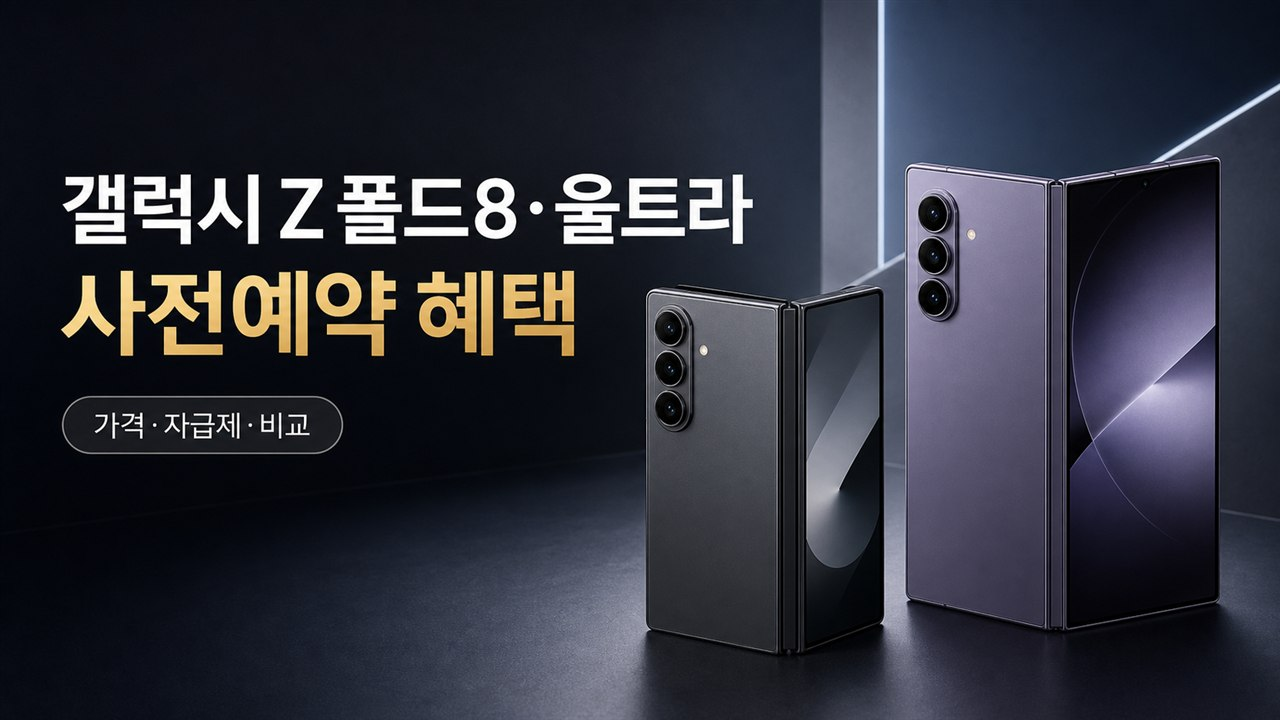
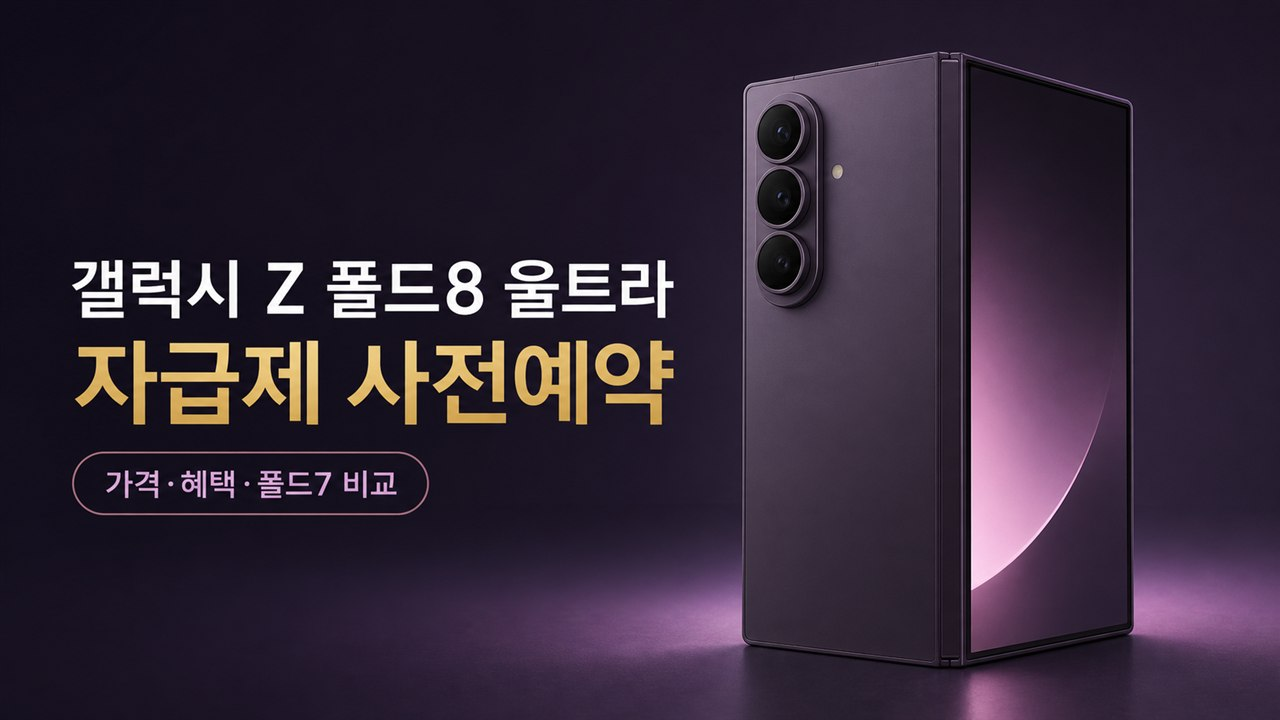
content: split Fold8 self-unlocked preorder guides

diff --git a/src/content/posts/galaxy-z-fold8-ultra-preorder-guide.md b/src/content/posts/galaxy-z-fold8-ultra-preorder-guide.md
@@ -1,160 +1,142 @@
 ---
-title: "갤럭시 Z 폴드8·폴드8 울트라 사전예약 가격과 자급제 혜택"
-description: "삼성 갤럭시 Z 폴드8과 폴드8 울트라의 사전예약 기간·가격·혜택·신청 방법을 정리하고, 자급제와 통신사 구매 및 폴드7과의 차이를 비교합니다."
-pubDate: "2026-07-28T13:20:00+09:00"
-updatedDate: "2026-07-28T13:20:00+09:00"
+title: "갤럭시 Z 폴드8 울트라 자급제 사전예약 가격과 폴드7 비교"
+description: "갤럭시 Z 폴드8 울트라 자급제 사전예약 기간과 가격, 더블 스토리지 혜택, 폴드7과의 차이 및 신청 전 확인사항을 정리합니다."
+pubDate: "2026-07-28T13:30:00+09:00"
+updatedDate: "2026-07-28T16:05:00+09:00"
 permalink: "/galaxy-z-fold8-ultra-preorder-guide/"
 slugPath: "galaxy-z-fold8-ultra-preorder-guide"
 categories: ["living-information"]
-tags: ["삼성 갤럭시 폴드8 사전예약", "갤럭시 폴드8 울트라 사전예약", "갤럭시 폴드8 자급제", "갤럭시 폴드8 가격", "갤럭시 폴드8 vs 폴드7"]
+tags: ["삼성 갤럭시 폴드8 울트라 사전예약", "갤럭시 폴드8 울트라 자급제", "갤럭시 폴드8 울트라 가격", "갤럭시 폴드8 울트라 혜택", "갤럭시 폴드8 울트라 vs 폴드7"]
 heroImage: "/wp-content/uploads/2026/07/galaxy-z-fold8-ultra-preorder-guide.jpg"
 affiliateDisclosure: "이 포스팅은 네이버 쇼핑 커넥트 활동의 일환으로, 이에 따른 일정액의 수수료를 제공받습니다."
 originalUrl: "https://ssangbak.com/galaxy-z-fold8-ultra-preorder-guide/"
 ---
 
-삼성 갤럭시 Z 폴드8과 갤럭시 Z 폴드8 울트라의 국내 사전예약이 **2026년 7월 28일 시작**됐습니다. 예약 기간은 **8월 3일까지**, 공식 출시일은 **8월 7일**입니다. 오늘은 정식 출시일이 아니라 사전판매 시작일이므로 배송일과 개통 가능일을 구분해서 확인해야 합니다.
+갤럭시 Z 폴드8 울트라는 8.0형 대화면과 2억 화소 광각 카메라, 5,000mAh 배터리를 갖춘 상위 폴더블 모델입니다. 국내 자급제 사전예약은 **2026년 7월 28일부터 8월 3일까지**이며 공식 출시일은 **8월 7일**입니다.
 
-아래 버튼은 네이버 쇼핑 커넥트 상품 페이지로 연결됩니다. 판매자, 저장 용량, 자급제 여부, 배송 예정일과 최종 결제 금액을 확인한 뒤 신청하세요.
+아래 버튼은 갤럭시 Z 폴드8 울트라 자급제 상품으로 연결됩니다. 결제 전 상품명에 **울트라·자급제**, 선택한 저장 용량과 색상이 정확히 표시됐는지 확인하세요.
 
-<p><a class="cta-button" href="https://naver.me/GahxDsqC" target="_blank" rel="sponsored nofollow noopener">삼성 갤럭시 폴드8 사전예약 신청</a></p>
+<p><a class="cta-button" href="https://naver.me/GzdR2cGp" target="_blank" rel="sponsored nofollow noopener">삼성 갤럭시 폴드8 울트라 자급제 사전예약 신청</a></p>
 
-<p><a class="cta-button" href="https://naver.me/GahxDsqC" target="_blank" rel="sponsored nofollow noopener">삼성 갤럭시 폴드8 울트라 사전예약 신청</a></p>
-
-## 갤럭시 폴드8 사전예약 기간과 출시일
+## 폴드8 울트라 사전예약 기간과 출시일
 
 | 구분 | 일정 |
 | --- | --- |
-| 국내 사전예약 기간 | 2026년 7월 28일~8월 3일 |
+| 국내 사전예약 | 2026년 7월 28일~8월 3일 |
 | 사전구매 제품 수령·개통 | 2026년 8월 4일부터 |
-| 국내 공식 출시일 | 2026년 8월 7일 |
-| 사전판매 대상 | 폴드8 울트라, 폴드8, 플립8 |
+| 국내 공식 출시 | 2026년 8월 7일 |
+| 구매 형태 | 자급제 |
 
-사전예약은 삼성닷컴과 삼성스토어, 이동통신사 매장, 네이버·쿠팡·11번가·G마켓 등 온라인 판매처에서 진행됩니다. 같은 제품이라도 판매처별 즉시 할인, 카드 할인, 적립, 배송 조건이 다르므로 상품 페이지의 **판매자와 모델명**을 먼저 확인하는 편이 안전합니다.
+오늘은 정식 출시일이 아니라 사전판매 시작일입니다. 사전구매자는 8월 4일부터 순차적으로 제품을 받을 수 있지만 판매처와 색상별 재고에 따라 실제 배송 예정일은 달라질 수 있습니다.
 
-## 갤럭시 폴드8·울트라 가격
+## 갤럭시 폴드8 울트라 가격
 
-국내 출고가는 저장 용량과 메모리에 따라 다음과 같습니다.
+| 메모리·저장 용량 | 국내 출고가 | 사전예약 확인사항 |
+| --- | ---: | --- |
+| 12GB·256GB | 2,577,300원 | 더블 스토리지 적용 여부 |
+| 12GB·512GB | 2,830,300원 | 판매처 할인·추가 구성 |
+| 16GB·1TB | 3,451,800원 | 일반 사전판매 제외 안내 확인 |
 
-| 모델 | 메모리·저장 용량 | 출고가 |
-| --- | --- | ---: |
-| 갤럭시 Z 폴드8 | 12GB·256GB | 2,278,100원 |
-| 갤럭시 Z 폴드8 | 12GB·512GB | 2,531,100원 |
-| 갤럭시 Z 폴드8 | 16GB·1TB | 3,152,600원 |
-| 갤럭시 Z 폴드8 울트라 | 12GB·256GB | 2,577,300원 |
-| 갤럭시 Z 폴드8 울트라 | 12GB·512GB | 2,830,300원 |
-| 갤럭시 Z 폴드8 울트라 | 16GB·1TB | 3,451,800원 |
+256GB 모델은 사전구매 시 512GB로 용량을 올려주는 더블 스토리지가 핵심입니다. 단순히 256GB와 512GB 상품 가격만 비교하지 말고, 상품 상세 페이지에서 실제 수령 용량과 혜택 대상 모델을 확인해야 합니다.
 
-같은 저장 용량끼리 비교하면 폴드8 울트라가 폴드8보다 **299,200원** 높습니다. 다만 화면 크기와 카메라, 배터리, 충전 사양까지 다르기 때문에 가격 차이만 보고 선택하기보다는 사용 목적을 먼저 정하는 것이 좋습니다.
+삼성전자 발표에는 1TB 모델의 출고가도 안내돼 있지만 일반 사전판매 대상에서는 제외됩니다. 판매처에 1TB 또는 업그레이드 구성이 표시된다면 추가금, 메모리 용량과 제공 조건을 결제 전에 확인하세요.
 
-## 사전예약 혜택 핵심
+## 폴드8 울트라 자급제 사전예약 혜택
 
-공식 발표에서 확인되는 대표 혜택은 다음과 같습니다.
+공식 구매 혜택에서 확인할 수 있는 대표 항목은 다음과 같습니다.
 
-- 256GB 사전구매 시 512GB로 **더블 스토리지**
-- 갤럭시 워치 울트라2·워치9 **10% 할인 쿠폰 1장**
-- 정품 케이스·액세서리 **30% 할인 쿠폰 5장**
-- Google AI Pro **6개월 무료 이용권**
-- 윌라 **3개월 무료 이용권**
-- 내부 보호필름 **1회 무료 부착**
-- 조건에 따라 이용할 수 있는 New 갤럭시 AI 구독클럽
+- 256GB 구매 시 512GB로 더블 스토리지
+- 갤럭시 워치 울트라2·워치9 10% 할인 쿠폰 1장
+- 정품 케이스·액세서리 30% 할인 쿠폰 5장
+- Google AI Pro 6개월 무료 이용권
+- 윌라 3개월 무료 이용권
+- 내부 보호필름 1회 무료 부착
+- 조건 충족 시 New 갤럭시 AI 구독클럽 이용
 
-혜택은 구매만 하면 모두 자동 지급되는 방식이 아닙니다. 제품을 정해진 기간 안에 최초 통화하고 삼성닷컴 앱에서 신청해야 하는 항목이 있으며, 쿠폰별 사용기한도 다릅니다. Google AI Pro와 윌라는 무료기간 뒤 자동 결제로 전환될 수 있으므로 등록 과정에서 결제수단과 해지 조건을 확인하세요.
-
-특히 사전예약 상품 페이지에 표시된 판매처 자체 혜택과 삼성전자 공통 혜택은 서로 다른 조건입니다. 카드 할인이나 포인트 적립은 결제 화면에서 실제 적용 금액을 확인해야 합니다.
+일부 혜택은 제품 수령 후 최초 통화를 완료하고 삼성닷컴 앱에서 직접 신청해야 합니다. 무료 구독은 기간 종료 후 자동 결제로 전환될 수 있으므로 등록할 때 결제수단과 해지 방법을 확인하세요. 판매처의 카드 할인·적립·사은품은 삼성전자 공통 혜택과 별도입니다.
 
 [삼성전자 갤럭시 Z8 구매 혜택 확인](https://www.samsung.com/sec/event/galaxy-z8/promotion/)
 
-## 폴드8과 폴드8 울트라 차이
+## 폴드8 울트라 주요 사양
 
-| 비교 항목 | 갤럭시 Z 폴드8 | 갤럭시 Z 폴드8 울트라 |
+| 항목 | 갤럭시 Z 폴드8 울트라 |
+| --- | --- |
+| 메인 화면 | 8.0형 |
+| 커버 화면 | 6.5형 |
+| 무게 | 215g |
+| 접었을 때 두께 | 8.9mm |
+| 펼쳤을 때 두께 | 4.1mm |
+| 배터리 | 5,000mAh |
+| 유선 충전 | 최대 45W |
+| 후면 카메라 | 2억 화소 광각·5,000만 화소 초광각·1,000만 화소 3배 망원 |
+| 기본 색상 | 바이올렛 쉐도우·그라파이트·크림 |
+| 전용 색상 | 그린 쉐도우 |
+
+업무 문서와 멀티태스킹, 영상 감상처럼 펼친 화면을 자주 쓴다면 8.0형 메인 화면의 장점이 큽니다. 2억 화소 광각과 3배 망원 카메라가 필요하거나 배터리와 충전 성능을 우선한다면 기본 폴드8보다 울트라가 적합합니다.
+
+## 갤럭시 폴드8 울트라 vs 폴드7
+
+| 비교 항목 | 갤럭시 Z 폴드7 | 갤럭시 Z 폴드8 울트라 |
 | --- | --- | --- |
-| 메인 화면 | 7.6형 | 8.0형 |
-| 커버 화면 | 5.5형 | 6.5형 |
-| 무게 | 201g | 215g |
-| 배터리 | 4,800mAh | 5,000mAh |
-| 후면 카메라 | 5,000만 화소 광각·5,000만 화소 초광각 | 2억 화소 광각·5,000만 화소 초광각·1,000만 화소 3배 망원 |
-| 256GB 출고가 | 2,278,100원 | 2,577,300원 |
-| 성격 | 휴대성과 콘텐츠 감상 중심 | 대화면·카메라·생산성 중심 |
+| 메인·커버 화면 | 8.0형·6.5형 | 8.0형·6.5형 |
+| 무게 | 215g | 215g |
+| 펼친 두께 | 4.2mm | 4.1mm |
+| 배터리 | 4,400mAh | 5,000mAh |
+| 광각 카메라 | 2억 화소 | 2억 화소 |
+| 초광각 카메라 | 1,200만 화소 | 5,000만 화소 |
+| 망원 카메라 | 1,000만 화소 3배 | 1,000만 화소 3배 |
+| 256GB 출고가 | 2,379,300원 | 2,577,300원 |
 
-폴드8은 화면을 조금 줄이는 대신 201g으로 가벼워졌습니다. 이동 중 영상이나 웹 콘텐츠를 자주 보면서 무게 부담을 줄이고 싶다면 폴드8이 맞습니다. 폴드8 울트라는 8.0형 화면과 2억 화소 광각, 3배 망원 카메라를 갖춰 멀티태스킹과 촬영 성능을 중시하는 사람에게 유리합니다.
+폴드7과 화면 크기·무게는 같지만 폴드8 울트라는 배터리가 600mAh 늘고 펼친 두께가 0.1mm 줄었습니다. 초광각 카메라도 1,200만 화소에서 5,000만 화소로 높아졌습니다. 반면 256GB 출고가는 198,000원 올랐으므로, 폴드7 이용자는 배터리와 카메라 개선이 가격 차이만큼 필요한지 판단해야 합니다.
 
-## 갤럭시 폴드8 vs 폴드7
+## 울트라 자급제 구매가 맞는 경우
 
-폴드7 이용자가 기기 변경을 고민한다면 단순히 폴드8만 비교하지 말고 **폴드8 울트라까지 함께** 봐야 합니다. 폴드7의 8.0형 메인 화면과 6.5형 커버 화면, 2억 화소 광각 카메라 계보는 폴드8 울트라에 더 가깝습니다.
+- 알뜰폰이나 현재 요금제를 그대로 유지하려는 경우
+- 통신사 약정과 고가 요금제 조건을 원하지 않는 경우
+- 온라인 카드 할인과 포인트 적립을 활용할 경우
+- 유심 또는 eSIM만 옮겨 바로 사용하려는 경우
+- 대화면·카메라를 중시하면서 통신비를 따로 관리하려는 경우
 
-| 비교 항목 | 갤럭시 Z 폴드7 | 갤럭시 Z 폴드8 | 갤럭시 Z 폴드8 울트라 |
-| --- | --- | --- | --- |
-| 메인·커버 화면 | 8.0형·6.5형 | 7.6형·5.5형 | 8.0형·6.5형 |
-| 무게 | 215g | 201g | 215g |
-| 배터리 | 4,400mAh | 4,800mAh | 5,000mAh |
-| 광각 카메라 | 2억 화소 | 5,000만 화소 | 2억 화소 |
-| 초광각 카메라 | 1,200만 화소 | 5,000만 화소 | 5,000만 화소 |
-| 256GB 출고가 | 2,379,300원 | 2,278,100원 | 2,577,300원 |
+자급제는 공시지원금이 없는 대신 요금제 선택이 자유롭습니다. 기기 가격만 보지 말고 현재 요금제를 24개월 유지했을 때의 통신비까지 합산하면 통신사 개통 상품과 정확하게 비교할 수 있습니다.
 
-폴드7에서 폴드8로 바꾸면 14g 가벼워지고 배터리 용량은 400mAh 늘지만, 화면이 작아지고 2억 화소 광각과 망원 카메라가 빠집니다. 반대로 폴드8 울트라는 무게와 화면 크기는 폴드7과 같으면서 배터리, 초광각 카메라와 처리 성능을 강화한 상위 선택지입니다. 사진과 대화면이 중요하다면 울트라, 무게와 가격이 중요하다면 기본 폴드8 쪽이 명확합니다.
+## 폴드8 울트라 자급제 신청 방법
 
-## 자급제와 통신사 혜택 비교
+1. 상품명에서 `갤럭시 Z 폴드8 울트라 자급제`를 확인합니다.
+2. 256GB 더블 스토리지 적용 여부와 실제 수령 용량을 확인합니다.
+3. 바이올렛 쉐도우·그라파이트·크림 등 원하는 색상을 선택합니다.
+4. 판매자, 국내 정식 발매 제품 여부와 배송 예정일을 확인합니다.
+5. 카드 할인과 적립을 적용한 최종 결제 금액을 확인합니다.
+6. 제품 수령 후 유심 또는 eSIM을 등록하고 최초 통화를 완료합니다.
+7. 삼성닷컴 앱에서 사전구매 혜택을 신청합니다.
 
-### 자급제가 맞는 경우
+<p><a class="cta-button" href="https://naver.me/GzdR2cGp" target="_blank" rel="sponsored nofollow noopener">갤럭시 폴드8 울트라 자급제 상품 확인</a></p>
 
-- 현재 쓰는 알뜰폰이나 저가 요금제를 유지하고 싶은 경우
-- 약정 없이 유심이나 eSIM만 옮겨 쓰고 싶은 경우
-- 온라인 즉시 할인, 카드 할인, 포인트 적립이 큰 경우
-- 통신사 부가서비스나 고가 요금제가 필요하지 않은 경우
+## 신청 전 체크리스트
 
-자급제는 단말기 할인액만 보는 것보다 **24개월 통신비까지 합산**해야 정확합니다. 제품을 받으면 기존 유심의 규격과 eSIM 지원 여부를 확인하고, 통신사에서 확정기변 또는 기기 등록이 필요한지도 확인하세요.
+- 기본 폴드8이 아니라 **폴드8 울트라**인지
+- 통신사 개통 조건이 없는 **자급제** 상품인지
+- 저장 용량과 더블 스토리지 제공 조건
+- 국내 정식 발매·미개봉 제품 여부
+- 배송 지연 또는 품절 시 취소·환불 규정
+- 판매처 사은품과 삼성전자 공통 혜택의 신청 주체
+- 최초 통화일과 각 혜택의 신청·사용기한
 
-### 통신사 구매가 맞는 경우
+## 폴드8 울트라 자급제 FAQ
 
-- 번호이동·기기변경 지원금이 큰 경우
-- 가족결합이나 인터넷 결합 할인을 유지해야 하는 경우
-- 고가 요금제를 원래 사용할 예정인 경우
-- 중고폰 반납, 제휴카드, 보험 혜택까지 실제로 활용하는 경우
+### 울트라 공식 출시일은 언제인가요?
 
-통신사 혜택은 가입 유형과 요금제, 공시지원금 또는 선택약정, 추가지원금, 부가서비스 유지 조건에 따라 달라집니다. “최대 할인” 숫자보다 **단말 할부원금·월 요금·의무 유지기간·24개월 총액**을 확인하세요. 사전예약 기간 중에도 조건이 바뀔 수 있어 SKT·KT·LG유플러스 공식 판매 화면의 최종 견적이 기준입니다.
+2026년 8월 7일입니다. 사전구매 제품은 8월 4일부터 수령과 개통이 가능합니다.
 
-## 갤럭시 폴드8 사전예약 방법
+### 기본 폴드8과 가장 큰 차이는 무엇인가요?
 
-1. 폴드8과 폴드8 울트라 중 사용할 모델을 정합니다.
-2. 256GB 더블 스토리지와 판매처별 512GB 조건을 비교합니다.
-3. 자급제인지 통신사 개통 상품인지 상품명을 확인합니다.
-4. 색상, 저장 용량, 배송 예정일과 판매자를 확인합니다.
-5. 카드 할인과 포인트를 적용한 최종 결제 금액을 확인합니다.
-6. 구매 후 8월 4일부터 가능한 수령·개통 일정을 확인합니다.
-7. 최초 통화 후 삼성닷컴 앱에서 사전구매 혜택을 신청합니다.
+울트라는 8.0형 메인 화면, 2억 화소 광각과 3배 망원 카메라, 5,000mAh 배터리를 갖춘 대화면 상위 모델입니다. 기본형은 더 작고 201g으로 가볍습니다.
 
-<p><a class="cta-button" href="https://naver.me/GahxDsqC" target="_blank" rel="sponsored nofollow noopener">갤럭시 폴드8·울트라 사전예약 상품 확인</a></p>
+### 자급제도 사전예약 혜택을 받을 수 있나요?
 
-## 신청 전 반드시 확인할 항목
+공식 대상 판매처에서 구매하고 최초 통화와 삼성닷컴 앱 신청 등 조건을 충족하면 받을 수 있습니다. 상품 상세 페이지의 대상 모델과 신청기한을 최종 확인하세요.
 
-- 상품명에 **자급제** 또는 통신사 개통 조건이 명확히 표시돼 있는지
-- 새 제품이며 국내 정식 발매 모델인지
-- 256GB 구매 시 512GB 더블 스토리지가 적용되는 구성인지
-- 판매자 자체 사은품의 지급 주체와 신청기한
-- 카드 할인 적용 후 실제 결제 금액
-- 배송 지연이나 색상 품절 시 취소·환불 조건
-- 삼성전자 혜택 신청에 필요한 최초 통화일과 신청기한
+### 유심만 옮겨도 사용할 수 있나요?
 
-## 갤럭시 폴드8 사전예약 FAQ
+기존 통신사의 유심 규격과 요금제가 단말을 지원하면 사용할 수 있습니다. eSIM이나 확정기변이 필요하다면 이용 중인 통신사 안내에 따라 등록하세요.
 
-### 갤럭시 폴드8 출시일은 언제인가요?
-
-국내 공식 출시일은 2026년 8월 7일입니다. 사전구매자는 8월 4일부터 제품 수령과 개통이 가능합니다.
-
-### 사전예약 기간은 언제까지인가요?
-
-2026년 7월 28일부터 8월 3일까지입니다. 다만 인기 색상이나 판매처별 준비 수량은 기간 전 소진될 수 있습니다.
-
-### 폴드8과 폴드8 울트라 중 어떤 모델이 더 좋은가요?
-
-가벼운 무게와 낮은 가격을 원하면 폴드8, 8.0형 대화면과 카메라·배터리 성능을 중시하면 폴드8 울트라가 맞습니다.
-
-### 폴드8 1TB도 사전예약할 수 있나요?
-
-삼성전자 공식 발표에서는 1TB 모델을 일반 사전판매하지 않는다고 안내했습니다. 판매 페이지에 1TB 업그레이드 구성이 보인다면 적용 대상, 추가금과 실제 제공 모델을 결제 전에 확인하세요.
-
-### 자급제도 삼성전자 사전예약 혜택을 받을 수 있나요?
-
-공식 대상 판매처에서 구매하고 최초 통화와 혜택 신청 등 조건을 충족하면 받을 수 있습니다. 다만 판매처별 구성과 신청 대상 모델이 다를 수 있으므로 상품 상세 안내를 우선 확인해야 합니다.
-
-> 확인 기준일: 2026년 7월 28일. 일정·가격·공통 혜택은 [삼성전자 공식 사전판매 발표](https://news.samsung.com/kr/%EC%82%BC%EC%84%B1%EC%A0%84%EC%9E%90-%EA%B0%A4%EB%9F%AD%EC%8B%9C-z-%ED%8F%B4%EB%93%9C8-%EC%9A%B8%ED%8A%B8%EB%9D%BC%C2%B7%ED%8F%B4%EB%93%9C8%C2%B7%ED%94%8C%EB%A6%BD8-%EA%B0%A4%EB%9F%AD%EC%8B%9C)을 기준으로 정리했습니다. 상품 가격과 판매처 추가 혜택은 결제 시점에 달라질 수 있습니다.
+> 확인 기준일: 2026년 7월 28일. 일정·출고가·공통 혜택은 [삼성전자 공식 사전판매 발표](https://news.samsung.com/kr/%EC%82%BC%EC%84%B1%EC%A0%84%EC%9E%90-%EA%B0%A4%EB%9F%AD%EC%8B%9C-z-%ED%8F%B4%EB%93%9C8-%EC%9A%B8%ED%8A%B8%EB%9D%BC%C2%B7%ED%8F%B4%EB%93%9C8%C2%B7%ED%94%8C%EB%A6%BD8-%EA%B0%A4%EB%9F%AD%EC%8B%9C)을 기준으로 정리했습니다. 상품 가격과 판매처 추가 혜택은 결제 시점에 달라질 수 있습니다.

diff --git a/src/content/posts/galaxy-z-fold8-self-unlocked-preorder.md b/src/content/posts/galaxy-z-fold8-self-unlocked-preorder.md
@@ -1,0 +1,136 @@
+---
+title: "갤럭시 Z 폴드8 자급제 사전예약 가격·혜택·신청 방법"
+description: "갤럭시 Z 폴드8 자급제 사전예약 기간과 가격, 더블 스토리지 혜택, 폴드7과의 차이 및 자급제 신청 방법을 정리합니다."
+pubDate: "2026-07-28T13:20:00+09:00"
+updatedDate: "2026-07-28T16:05:00+09:00"
+permalink: "/galaxy-z-fold8-self-unlocked-preorder/"
+slugPath: "galaxy-z-fold8-self-unlocked-preorder"
+categories: ["living-information"]
+tags: ["삼성 갤럭시 폴드8 사전예약", "갤럭시 폴드8 자급제", "갤럭시 폴드8 가격", "갤럭시 폴드8 사전예약 혜택", "갤럭시 폴드8 vs 폴드7"]
+heroImage: "/wp-content/uploads/2026/07/galaxy-z-fold8-self-unlocked-preorder.jpg"
+affiliateDisclosure: "이 포스팅은 네이버 쇼핑 커넥트 활동의 일환으로, 이에 따른 일정액의 수수료를 제공받습니다."
+originalUrl: "https://ssangbak.com/galaxy-z-fold8-self-unlocked-preorder/"
+---
+
+갤럭시 Z 폴드8은 201g의 가벼운 무게와 7.6형 메인 화면을 갖춘 휴대성 중심 폴더블입니다. 국내 자급제 사전예약은 **2026년 7월 28일부터 8월 3일까지**이며 공식 출시일은 **8월 7일**입니다.
+
+아래 버튼은 갤럭시 Z 폴드8 자급제 상품으로 연결됩니다. 결제 전 상품명에 **폴드8·자급제**, 선택한 저장 용량과 색상이 정확히 표시됐는지 확인하세요.
+
+<p><a class="cta-button" href="https://naver.me/GahxDsqC" target="_blank" rel="sponsored nofollow noopener">삼성 갤럭시 폴드8 자급제 사전예약 신청</a></p>
+
+## 폴드8 사전예약 기간과 출시일
+
+| 구분 | 일정 |
+| --- | --- |
+| 국내 사전예약 | 2026년 7월 28일~8월 3일 |
+| 사전구매 제품 수령·개통 | 2026년 8월 4일부터 |
+| 국내 공식 출시 | 2026년 8월 7일 |
+| 구매 형태 | 자급제 |
+
+사전예약 기간 안에 주문해도 색상과 판매처별 물량에 따라 배송일이 달라질 수 있습니다. 공식 출시일과 사전구매자 수령 시작일은 다르므로 상품 페이지에 표시된 실제 배송 예정일을 기준으로 보세요.
+
+## 갤럭시 폴드8 자급제 가격
+
+| 메모리·저장 용량 | 국내 출고가 | 사전예약 확인사항 |
+| --- | ---: | --- |
+| 12GB·256GB | 2,278,100원 | 더블 스토리지 적용 여부 |
+| 12GB·512GB | 2,531,100원 | 판매처 할인·추가 구성 |
+| 16GB·1TB | 3,152,600원 | 일반 사전판매 제외 안내 확인 |
+
+256GB 모델을 사전구매하면 512GB로 용량을 올려주는 더블 스토리지가 대표 혜택입니다. 판매처 상품명에 256GB로 표시되더라도 실제 제공 용량이 512GB인지 상세 조건에서 확인해야 합니다.
+
+1TB 모델은 출고가가 발표됐지만 일반 사전판매 대상에서는 제외됩니다. 판매 페이지에 1TB 또는 업그레이드 구성이 있다면 추가금, 메모리 용량과 제공 조건을 결제 전에 확인하세요.
+
+## 폴드8 자급제 사전예약 혜택
+
+- 256GB 구매 시 512GB로 더블 스토리지
+- 갤럭시 워치 울트라2·워치9 10% 할인 쿠폰 1장
+- 정품 케이스·액세서리 30% 할인 쿠폰 5장
+- Google AI Pro 6개월 무료 이용권
+- 윌라 3개월 무료 이용권
+- 내부 보호필름 1회 무료 부착
+- 조건 충족 시 New 갤럭시 AI 구독클럽 이용
+
+혜택마다 최초 통화일, 삼성닷컴 앱 신청기간과 쿠폰 사용기한이 다릅니다. 무료 구독은 기간이 끝난 뒤 자동 결제로 바뀔 수 있으므로 등록 시 결제수단과 해지 조건을 확인하세요. 판매처 카드 할인과 포인트 적립은 삼성전자 공통 혜택과 별도입니다.
+
+[삼성전자 갤럭시 Z8 구매 혜택 확인](https://www.samsung.com/sec/event/galaxy-z8/promotion/)
+
+## 갤럭시 폴드8 주요 사양
+
+| 항목 | 갤럭시 Z 폴드8 |
+| --- | --- |
+| 메인 화면 | 7.6형 |
+| 커버 화면 | 5.5형 |
+| 무게 | 201g |
+| 배터리 | 4,800mAh |
+| 후면 카메라 | 5,000만 화소 광각·5,000만 화소 초광각 |
+| 색상 | 라벤더·그라파이트·크림 |
+| 전용 색상 | 피스타치오 |
+
+폴드8의 핵심은 울트라보다 작은 화면과 단순한 듀얼 카메라 구성을 택하는 대신 무게를 201g으로 낮췄다는 점입니다. 이동 중 한 손으로 들고 쓰는 시간이 길거나 카메라보다 휴대성을 우선한다면 기본 폴드8이 더 실용적입니다.
+
+## 갤럭시 폴드8 vs 폴드7
+
+| 비교 항목 | 갤럭시 Z 폴드7 | 갤럭시 Z 폴드8 |
+| --- | --- | --- |
+| 메인·커버 화면 | 8.0형·6.5형 | 7.6형·5.5형 |
+| 무게 | 215g | 201g |
+| 배터리 | 4,400mAh | 4,800mAh |
+| 광각 카메라 | 2억 화소 | 5,000만 화소 |
+| 초광각 카메라 | 1,200만 화소 | 5,000만 화소 |
+| 망원 카메라 | 1,000만 화소 3배 | 없음 |
+| 256GB 출고가 | 2,379,300원 | 2,278,100원 |
+
+폴드8은 폴드7보다 14g 가볍고 배터리는 400mAh 늘었으며 256GB 출고가는 101,200원 낮습니다. 반면 화면이 작아지고 2억 화소 광각과 망원 카메라가 빠집니다. 폴드7의 대화면·카메라 구성을 그대로 발전시킨 모델을 원한다면 폴드8 울트라가 더 가까우며, 기본 폴드8은 휴대성과 가격을 우선한 별도 선택지로 보는 것이 정확합니다.
+
+## 폴드8 자급제가 유리한 경우
+
+- 현재 쓰는 알뜰폰이나 저가 요금제를 유지하려는 경우
+- 통신사 약정 없이 유심 또는 eSIM만 옮기려는 경우
+- 온라인 카드 할인과 포인트 적립을 활용할 경우
+- 가족결합보다 월 통신비 절감 효과가 큰 경우
+- 단말 구매와 요금제 선택을 분리하고 싶은 경우
+
+자급제는 공시지원금을 받지 않는 대신 요금제 선택이 자유롭습니다. 통신사 상품과 비교할 때는 기기 할인액만 보지 말고 24개월 동안 낼 요금과 의무 부가서비스 비용까지 더해야 합니다.
+
+## 폴드8 자급제 사전예약 방법
+
+1. 상품명에서 `갤럭시 Z 폴드8 자급제`를 확인합니다.
+2. 256GB 더블 스토리지 적용 여부와 실제 수령 용량을 확인합니다.
+3. 라벤더·그라파이트·크림 등 원하는 색상을 선택합니다.
+4. 판매자와 국내 정식 발매·미개봉 제품 여부를 확인합니다.
+5. 카드 할인과 포인트를 적용한 최종 결제 금액을 확인합니다.
+6. 제품 수령 후 유심 또는 eSIM을 등록하고 최초 통화를 완료합니다.
+7. 삼성닷컴 앱에서 사전구매 혜택을 신청합니다.
+
+<p><a class="cta-button" href="https://naver.me/GahxDsqC" target="_blank" rel="sponsored nofollow noopener">갤럭시 폴드8 자급제 상품 확인</a></p>
+
+## 신청 전 체크리스트
+
+- 울트라가 아닌 **기본 폴드8**인지
+- 통신사 개통 조건이 없는 **자급제** 상품인지
+- 256GB 더블 스토리지 제공 조건
+- 색상과 실제 수령 저장 용량
+- 국내 정식 발매·미개봉 제품 여부
+- 배송 지연 또는 품절 시 취소·환불 규정
+- 최초 통화일과 혜택 신청·사용기한
+
+## 폴드8 자급제 FAQ
+
+### 폴드8 공식 출시일은 언제인가요?
+
+2026년 8월 7일입니다. 사전구매 제품은 8월 4일부터 수령과 개통이 가능합니다.
+
+### 폴드8 울트라와 외형에서 가장 쉽게 구분하는 방법은 무엇인가요?
+
+기본 폴드8은 후면 듀얼 카메라, 울트라는 후면 트리플 카메라입니다. 기본형은 201g이고 화면도 더 작습니다.
+
+### 자급제도 삼성전자 사전예약 혜택을 받을 수 있나요?
+
+공식 대상 판매처에서 구매하고 최초 통화와 삼성닷컴 앱 신청 등 조건을 충족하면 받을 수 있습니다. 상품 상세 페이지의 대상 모델과 신청기한을 확인하세요.
+
+### 기존 유심만 옮기면 되나요?
+
+기존 통신사의 유심 규격과 요금제가 단말을 지원하면 사용할 수 있습니다. eSIM이나 확정기변이 필요한 경우 이용 중인 통신사 안내에 따라 등록하세요.
+
+> 확인 기준일: 2026년 7월 28일. 일정·출고가·공통 혜택은 [삼성전자 공식 사전판매 발표](https://news.samsung.com/kr/%EC%82%BC%EC%84%B1%EC%A0%84%EC%9E%90-%EA%B0%A4%EB%9F%AD%EC%8B%9C-z-%ED%8F%B4%EB%93%9C8-%EC%9A%B8%ED%8A%B8%EB%9D%BC%C2%B7%ED%8F%B4%EB%93%9C8%C2%B7%ED%94%8C%EB%A6%BD8-%EA%B0%A4%EB%9F%AD%EC%8B%9C)을 기준으로 정리했습니다. 상품 가격과 판매처 추가 혜택은 결제 시점에 달라질 수 있습니다.
